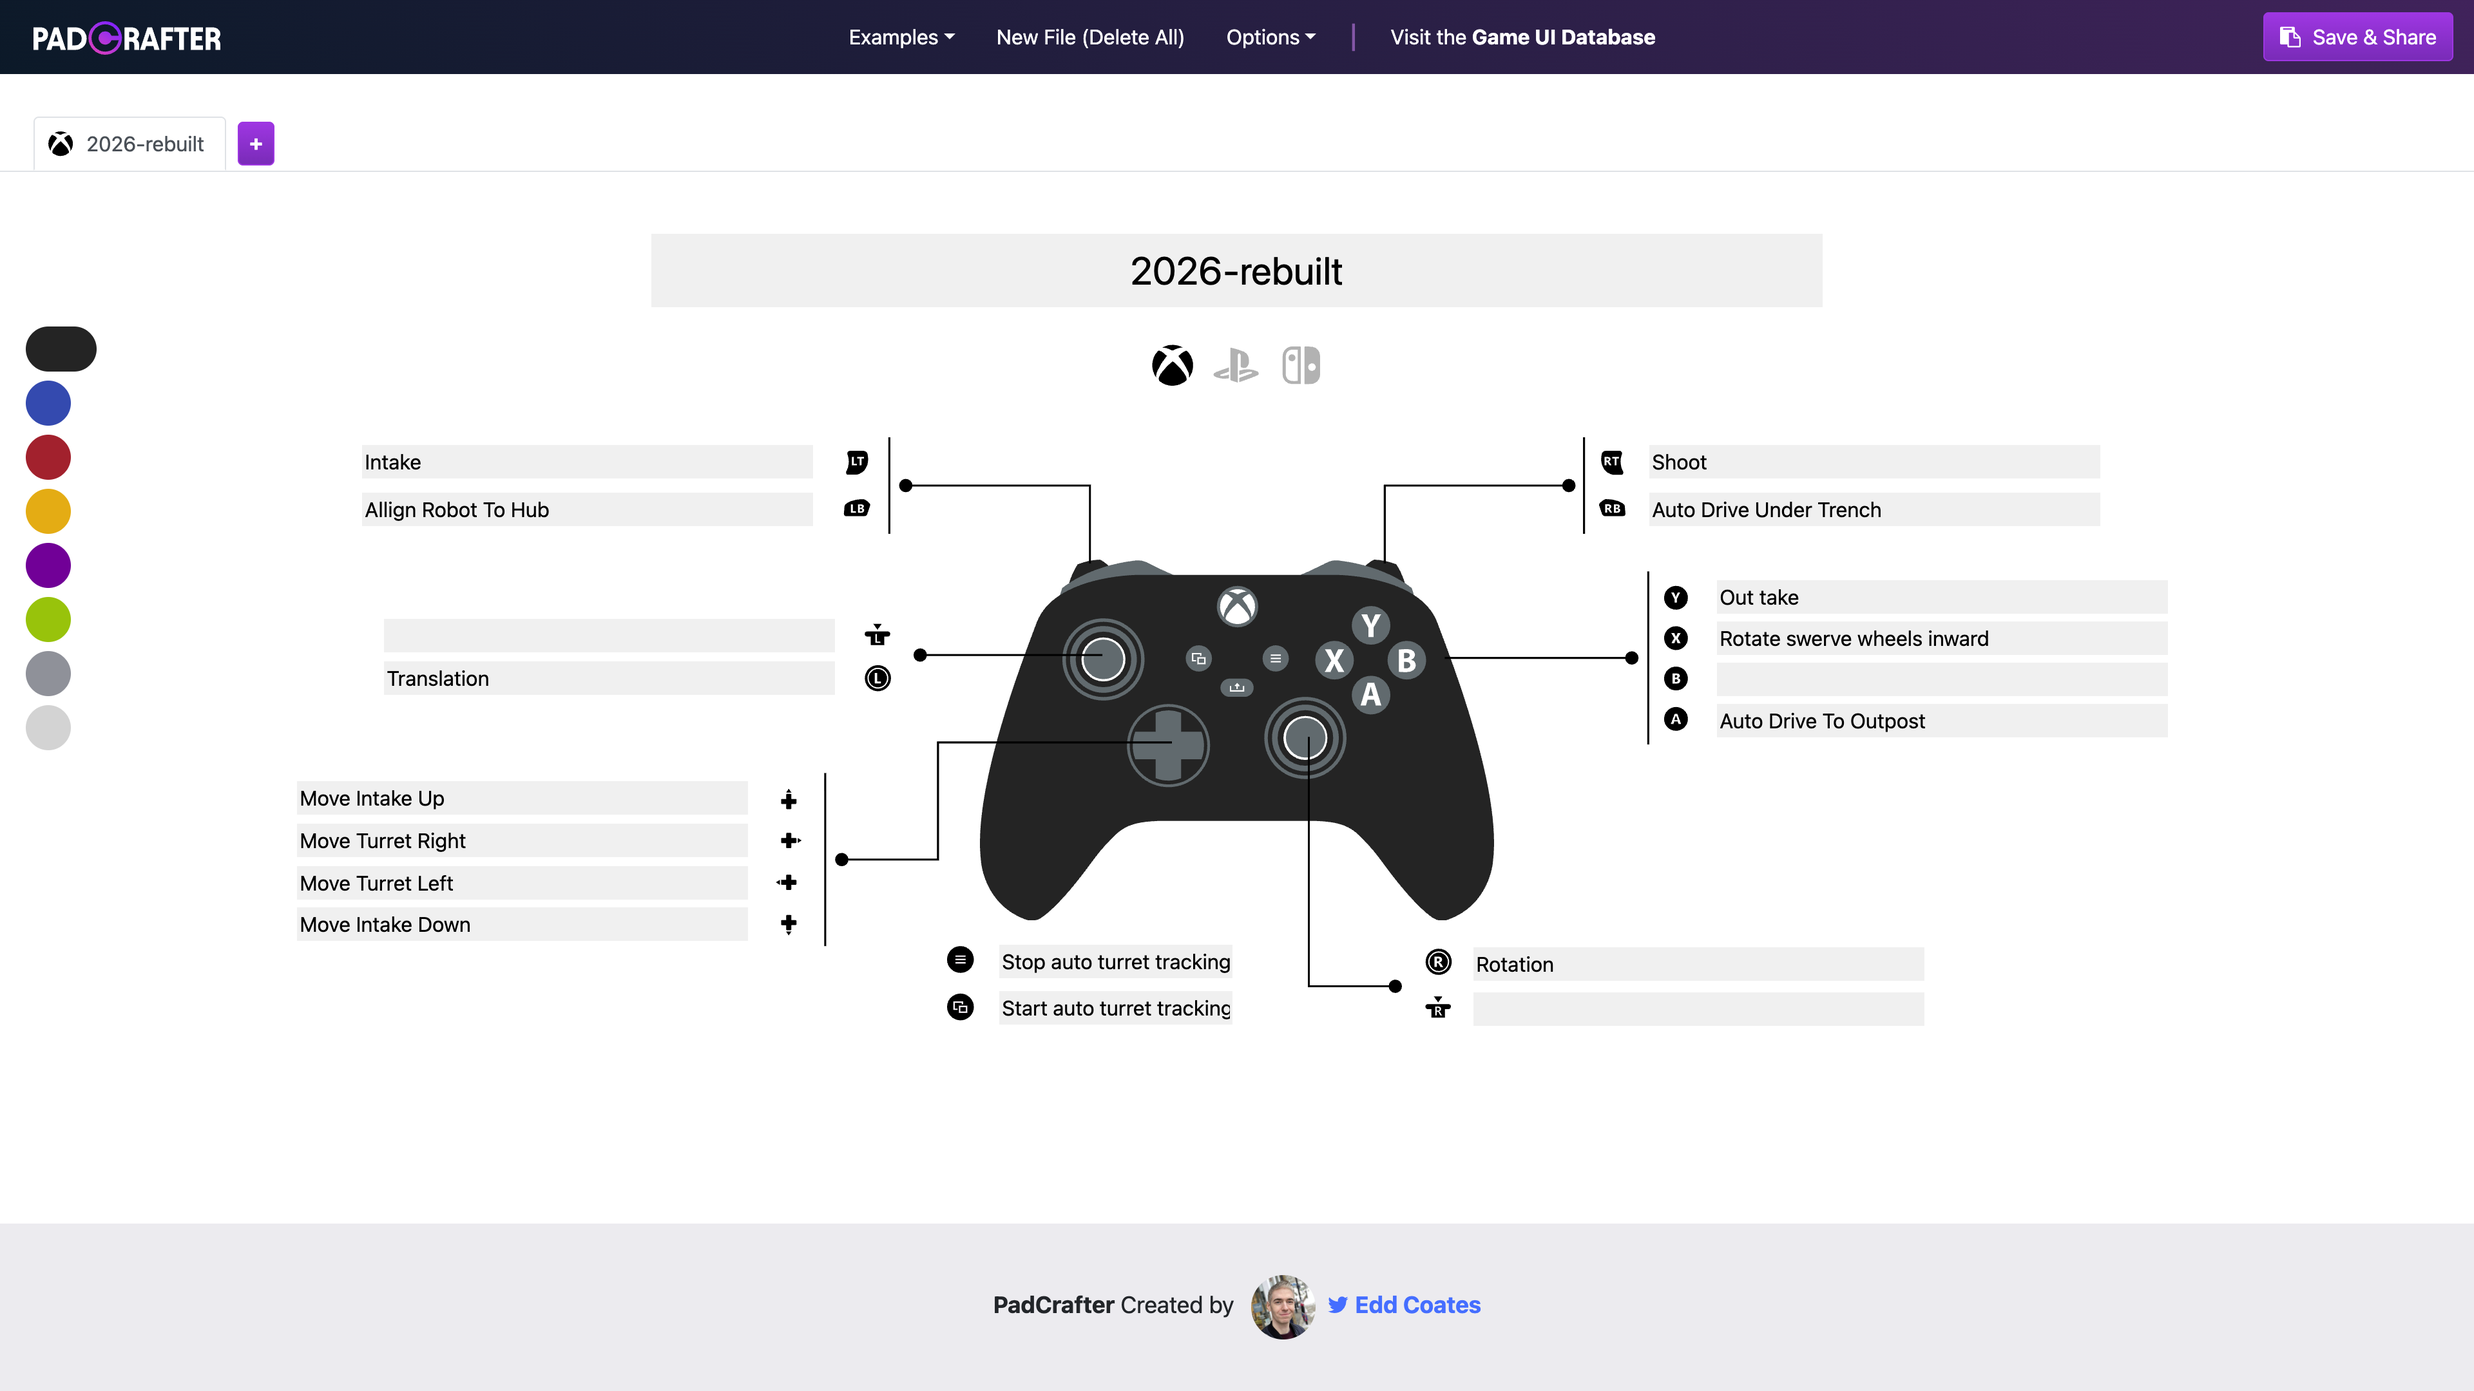
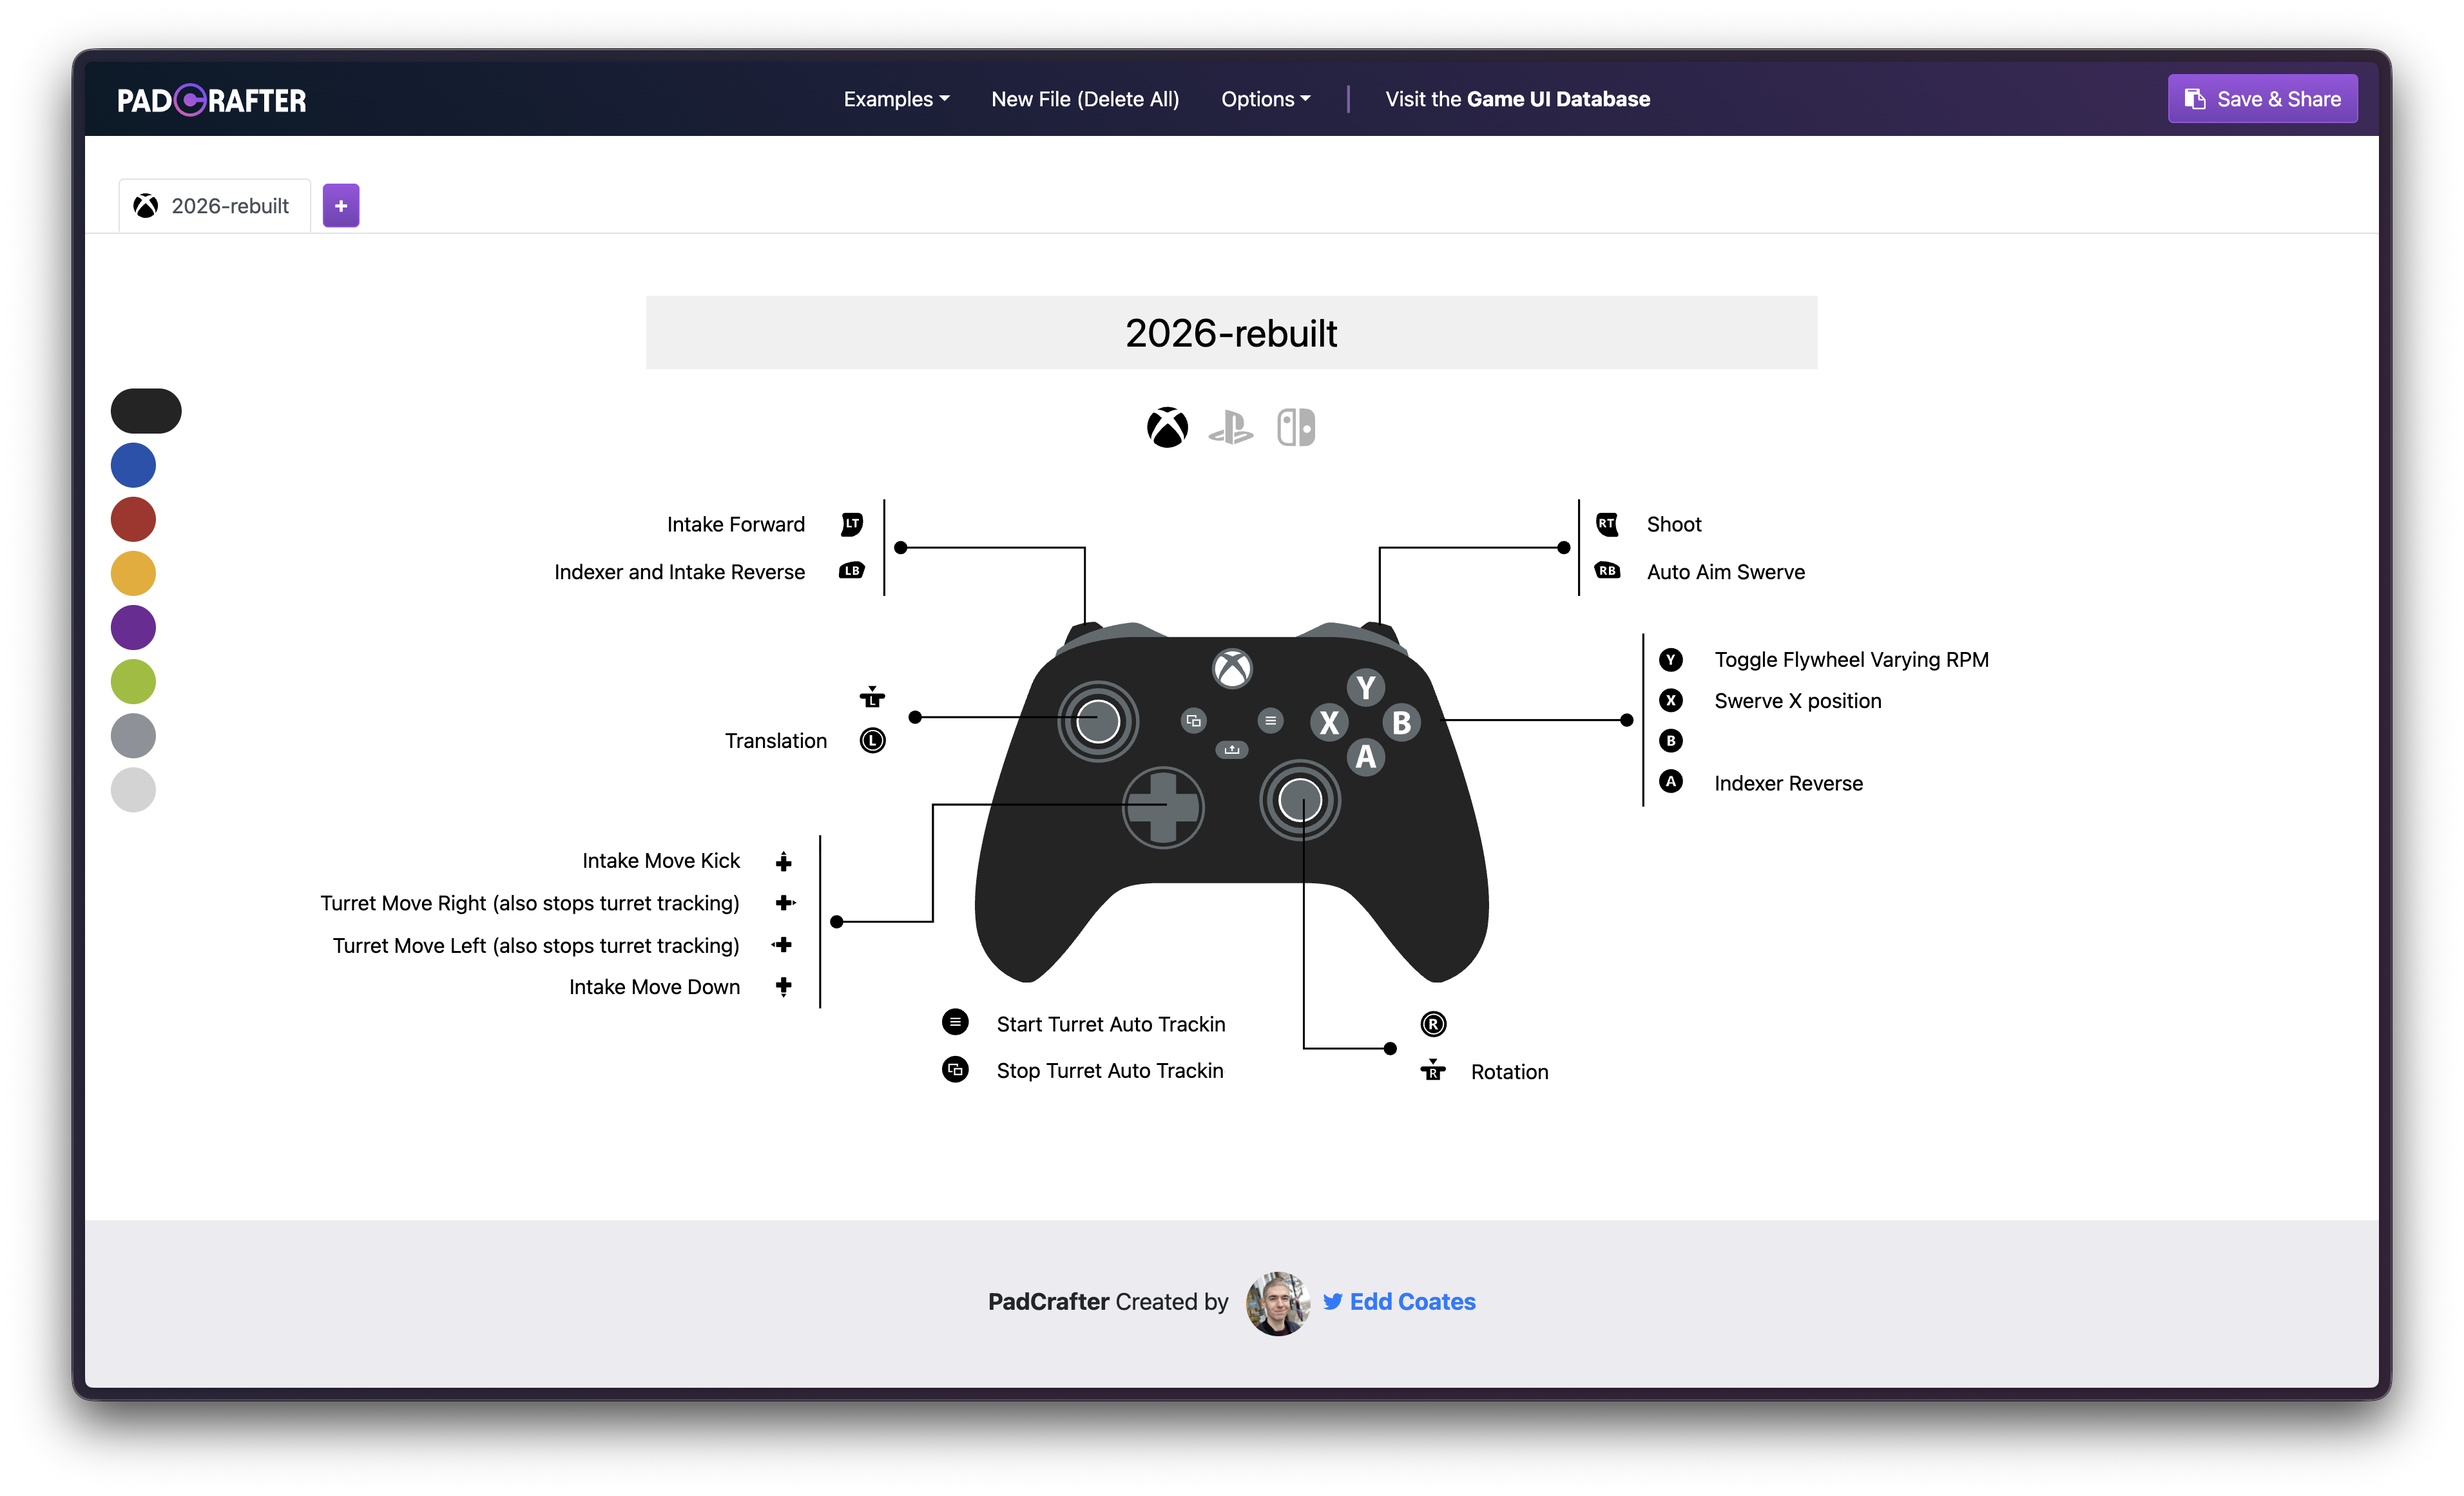
chore: update controller bindings

diff --git a/src/main/java/frc/robot/RobotContainer.java b/src/main/java/frc/robot/RobotContainer.java
@@ -137,12 +137,11 @@ public class RobotContainer {
         driverController.rightTrigger(0.5)
                 .whileTrue(shoot());
 
-        driverController.leftBumper().whileTrue(new OrientToHubCommand(drivebase, gameHelpers));
+        driverController.rightBumper().whileTrue(new OrientToHubCommand(drivebase, gameHelpers));
+        driverController.leftBumper().whileTrue(indexer.feedBackwards().alongWith(intake.intakeBackward()));
 
-        // A/B = unjam mechanisms by reversing indexer/intake
         driverController.a()
                 .whileTrue(indexer.feedBackwards());
-        driverController.b().whileTrue(indexer.feedBackwards().alongWith(intake.intakeBackward()));
         driverController.x()
                 .whileTrue(drivebase.lockWheels());
         // Rumble confirms the toggle so the driver doesn't have to check the dashboard

diff --git a/CONTROLLER.md b/CONTROLLER.md
@@ -12,12 +12,11 @@
 - **Right Trigger**: Shoot
 
 ### Bumpers
-- **Left Bumper**: *(unbound)*
-- **Right Bumper**: Auto drive under trench
+- **Left Bumper**: Reverse indexer and intake
+- **Right Bumper**: Auto Aim Swerve
 
 ### Face Buttons
-- **A Button**: Reverse indexer
-- **B Button**: Reverse indexer and intake
+- **A Button**: Reverse indexer and intake
 - **X Button**: Lock swerve wheels
 - **Y Button**: Toggle flywheel varying RPM
 
